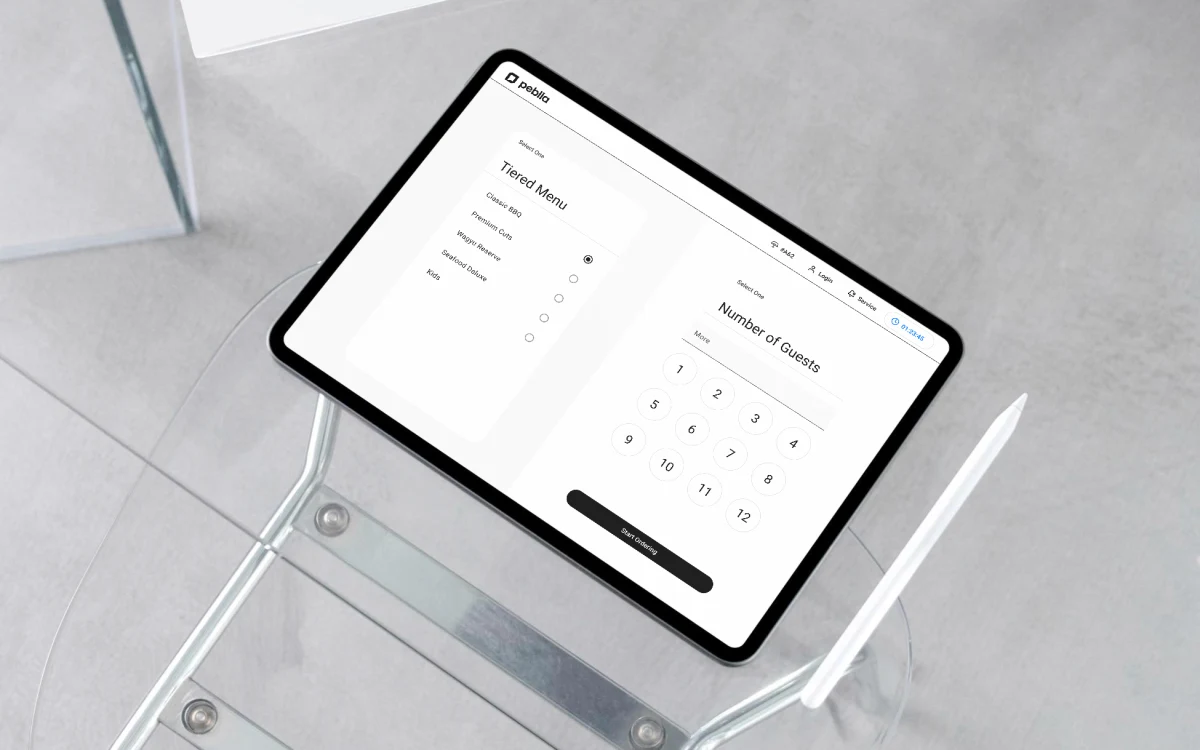
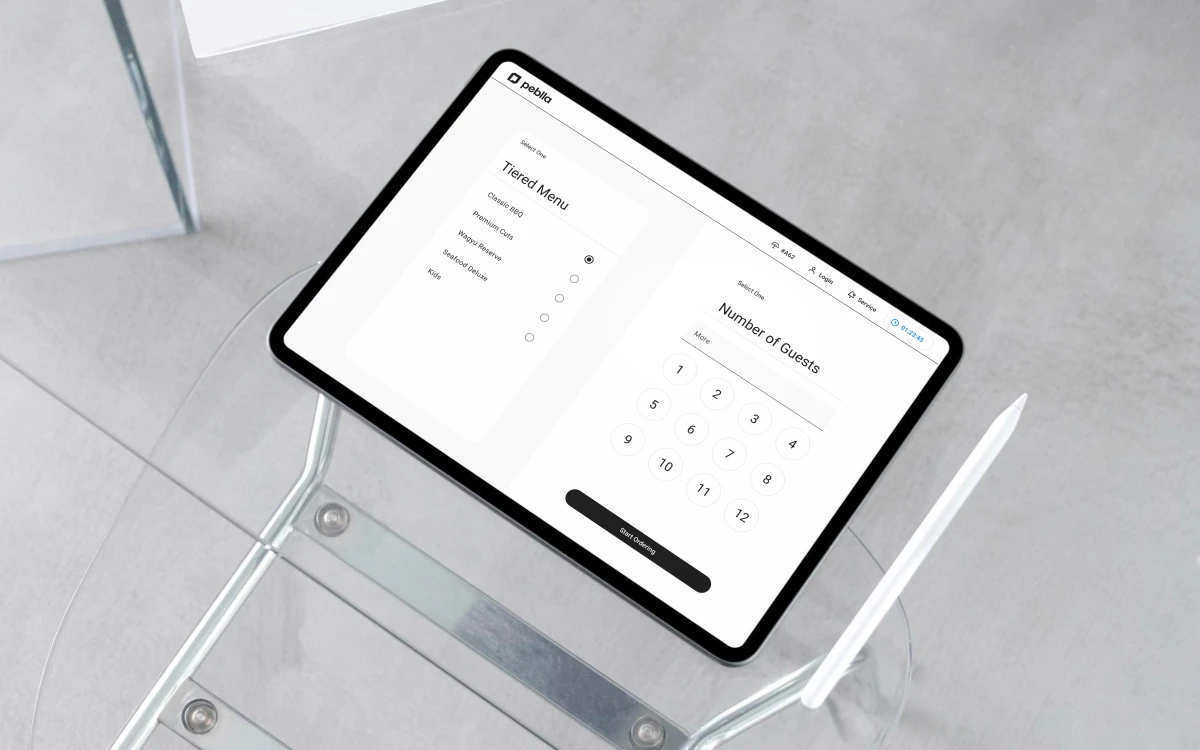
Add the Mobile POS cover and fix aliasing in the composited screens
The screens were being minified 4-5x inside warpPerspective, which has no
area filter - INTER_AREA is silently ignored there, so it was point-sampling
and shredding the type. Measured against a correct box filter, error 73.8 vs
6.1; LANCZOS4 was worse still at 90.6 since it is a sharpening kernel.

Fix: box-filter the screen to ~2x its on-screen size first, then warp, so the
warp only minifies 2x with the high frequencies already gone (error 6.3).
Masters now render at 2x and downscale, so the screen keeps roughly twice the
real detail.

Also replaces the convex-hull screen mask with an analytic rounded rectangle:
the four screen edges are line-fitted (sub-pixel residuals) and intersected
for the true corners, the corner radius is measured in rectified space, and
the mask is drawn and warped through the same homography - so the corners are
arcs rather than facets.

Mobile POS is composited from the Smart Scan screen. The 8% aspect gap with
the iPhone is absorbed as whitespace mid-screen, so the status bar stays
pinned to the top of the display and the buttons to the bottom.

Homepage now has no gradient placeholders left, and every work-index row has
a hover cover.

diff --git a/index.html b/index.html
@@ -92,7 +92,7 @@
       </div>
       <div class="client-grid">
         <a class="tile" href="mpos.html">
-          <div class="tile-media" style="--ph: linear-gradient(160deg, #ffe8d9, #ffd0a8)"><span>Mobile POS</span></div>
+          <div class="tile-media" style="--ph: linear-gradient(160deg, #ffe8d9, #ffd0a8)"><img src="assets/home/mpos.webp" alt="The handheld POS mid Smart Scan &mdash; twenty items detected, waiting on the side button to scan again" width="1200" height="750" loading="lazy" /></div>
           <div class="tile-cap"><h4 class="tile-name">Handheld Mobile POS</h4><span class="tile-year">2025</span></div>
         </a>
         <a class="tile" href="points-alliance.html">

diff --git a/zh/index.html b/zh/index.html
@@ -94,7 +94,7 @@
       </div>
       <div class="client-grid">
         <a class="tile" href="mpos.html">
-          <div class="tile-media" style="--ph: linear-gradient(160deg, #ffe8d9, #ffd0a8)"><span>Mobile POS</span></div>
+          <div class="tile-media" style="--ph: linear-gradient(160deg, #ffe8d9, #ffd0a8)"><img src="../assets/home/mpos.webp" alt="手持 POS 的 Smart Scan 畫面——已辨識 20 項，等待按下側鍵繼續掃描" width="1200" height="750" loading="lazy" /></div>
           <div class="tile-cap"><h4 class="tile-name">手持 Mobile POS</h4><span class="tile-year">2025</span></div>
         </a>
         <a class="tile" href="points-alliance.html">
